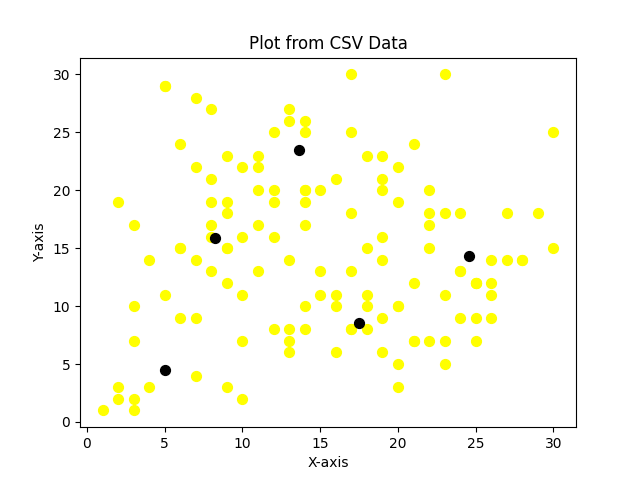
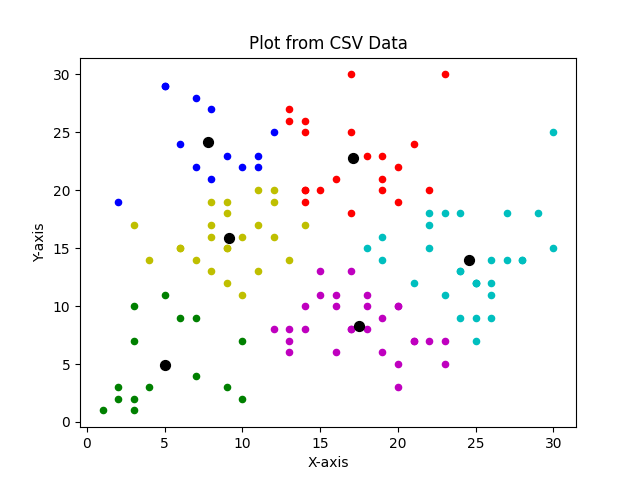
feat: fixed association of color to point

diff --git a/include/KMeans.hpp b/include/KMeans.hpp
@@ -322,9 +322,9 @@ void KMeans<PT, PD>::print()
   // Color map based on the centroid index
   std::vector<std::string> colors = {"r", "g", "b", "y", "m", "c", "k", "orange", "purple", "brown"};
 
-  // Store the points and their respective colors
-  std::vector<double> x_points, y_points;
-  std::vector<std::string> point_colors;
+  // Create vectors for points associated with each centroid
+  std::vector<std::vector<double>> x_points_per_centroid(centroids.size());
+  std::vector<std::vector<double>> y_points_per_centroid(centroids.size());
 
   for (auto &p : data)
   {
@@ -338,12 +338,19 @@ void KMeans<PT, PD>::print()
       // Assuming Point<PT, PD> is compatible with CentroidPoint<PT, PD>
       auto centroid_candidate = CentroidPoint<PT, PD>(*p.centroid); // Convert Point to CentroidPoint
       auto it = std::find(centroids.begin(), centroids.end(), centroid_candidate);
-      int centroid_index = std::distance(centroids.begin(), it);
 
-      // Add the point's coordinates and color based on the centroid index
-      x_points.push_back(p.coordinates[0]);
-      y_points.push_back(p.coordinates[1]);
-      point_colors.push_back(colors[centroid_index % colors.size()]);
+      if (it != centroids.end())
+      {
+        int centroid_index = std::distance(centroids.begin(), it);
+
+        // Add the point's coordinates to the appropriate centroid's point vector
+        x_points_per_centroid[centroid_index].push_back(p.coordinates[0]);
+        y_points_per_centroid[centroid_index].push_back(p.coordinates[1]);
+      }
+      else
+      {
+        std::cerr << "Error: Centroid not found!" << std::endl;
+      }
     }
     else
     {
@@ -354,11 +361,12 @@ void KMeans<PT, PD>::print()
 
   try
   {
-
-    std::map<std::string, std::string> point_options;
-    point_options["color"] = "yellow"; // for all points, or dynamically set it per point
-
-    plt::scatter(x_points, y_points, 50, point_options);
+    // Plot the points for each centroid with its associated color
+    for (size_t i = 0; i < centroids.size(); ++i)
+    {
+      // Plot the points for the current centroid with its corresponding color
+      plt::scatter(x_points_per_centroid[i], y_points_per_centroid[i], 20, {{"color", colors[i % colors.size()]}, {"label", "Centroid " + std::to_string(i)}});
+    }
 
     // Plot the centroids with bigger markers (e.g., size 50) and a distinct color (e.g., black)
     std::vector<double> x_centroids, y_centroids;

diff --git a/include/CentroidPoint.hpp b/include/CentroidPoint.hpp
@@ -46,22 +46,20 @@ public:
         }
     }
 
-    // Equality operator to compare two CentroidPoint objects
+    // Equality operator to compare two CentroidPoint objects based on the integer part of coordinates only
     bool operator==(const CentroidPoint<PT, PD> &other) const
     {
-        // Compare the base Point and HasWgtCent classes
-        if (this->coordinates != other.coordinates)
-        {
-            return false; // Coordinates are different
-        }
+        // Compare the integer part of the coordinates
         for (std::size_t i = 0; i < PD; ++i)
         {
-            if (this->wgtCent[i] != other.wgtCent[i])
+            if (std::floor(this->coordinates[i]) != std::floor(other.coordinates[i]))
             {
-                return false; // Weights are different
+                return false; // Coordinates differ in their integer part
             }
         }
-        return this->count == other.count; // Compare the count
+
+        // No comparison for 'count', we are only comparing coordinates here
+        return true; // If coordinates are the same (integer part), return true
     }
 
     // Virtual destructor
